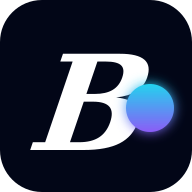
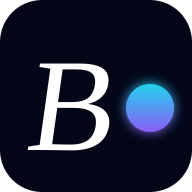
Branding: Standardize on 'boomtick.blog' Wordmark (#1108)

Changed region(s): [[0.125, 0.25, 0.7812, 0.8125]]

diff --git a/src/components/ui/Logo.tsx b/src/components/ui/Logo.tsx
@@ -1,26 +1,20 @@
-// impeccable-ignore-file
 import { useId } from 'react';
 import { cn } from '@/lib/utils';
-import { BrandDefs } from './BrandDefs';
 
 interface LogoProps {
   className?: string;
-  showText?: boolean;
 }
 
 /**
  * High-fidelity SVG Logo for BoomTick.
- * Featuring the serif "B" mark with a glowing gradient dot.
- * Uses shared brand definitions and utility classes for consistency.
+ * Consists of the 'boomtick.blog' wordmark.
  */
-export function Logo({ className, showText = true }: LogoProps) {
+export function Logo({ className }: LogoProps) {
   const titleId = useId();
-  const gradientId = useId();
-  const filterId = useId();
 
   return (
     <svg
-      viewBox={showText ? "0 0 450 100" : "0 0 120 100"}
+      viewBox="0 0 325 100"
       xmlns="http://www.w3.org/2000/svg"
       className={cn("h-full w-auto overflow-visible", className)}
       aria-labelledby={titleId}
@@ -28,40 +22,15 @@ export function Logo({ className, showText = true }: LogoProps) {
       preserveAspectRatio="xMidYMid meet"
     >
       <title id={titleId}>BoomTick Logo</title>
-      <BrandDefs gradientId={gradientId} filterId={filterId} />
 
-      <g transform="translate(10, 82)">
-        {/* The "B" Mark - Serif, Bold, Italic */}
-        <text
-          x="0"
-          y="0"
-          fill="currentColor"
-          transform="skewX(-8)"
-          className="brand-b-mark"
-        >
-          B
-        </text>
-
-        {/* The Glowing Dot */}
-        <circle
-          cx="82"
-          cy="-28"
-          r="16"
-          fill={`url(#${gradientId})`}
-          filter={`url(#${filterId})`}
-        />
-      </g>
-
-      {showText && (
-        <text
-          x="125"
-          y="78"
-          fill="currentColor"
-          className="brand-wordmark"
-        >
-          boom<tspan className="brand-text-accent">tick</tspan><tspan className="brand-text-muted font-light">.blog</tspan>
-        </text>
-      )}
+      <text
+        x="0"
+        y="75"
+        fill="currentColor"
+        className="brand-wordmark"
+      >
+        boom<tspan className="brand-text-accent">tick</tspan><tspan className="brand-text-muted font-light">.blog</tspan>
+      </text>
     </svg>
   );
 }

diff --git a/scripts/generate-assets.ts b/scripts/generate-assets.ts
@@ -5,7 +5,7 @@ import crypto from 'crypto';
 import { fileURLToPath } from 'url';
 
 const TOKENS_PATH = path.join(process.cwd(), 'src/styles/tokens.css');
-const LOGO_SVG_PATH = path.join(process.cwd(), 'boomtick_logo.svg');
+const LOGO_SVG_PATH = path.join(process.cwd(), 'public/boomtick_logo.svg');
 const FAVICON_SVG_PATH = path.join(process.cwd(), 'public/favicon.svg');
 const PWA_192_PATH = path.join(process.cwd(), 'public/pwa-192x192.png');
 const PWA_512_PATH = path.join(process.cwd(), 'public/pwa-512x512.png');
@@ -28,11 +28,6 @@ function getSharedSVGStyles(tokens: DesignTokens) {
     .brand-stop-purple { stop-color: ${tokens.accentPurple}; }
     .brand-text-accent { fill: ${tokens.heroAccent}; }
     .brand-text-muted { fill: rgba(241, 245, 249, 0.6); }
-    .brand-b-mark {
-      font-family: 'Playfair Display', serif;
-      font-weight: 900;
-      font-style: italic;
-    }
     .brand-wordmark {
       font-family: 'Bricolage Grotesque', sans-serif;
       font-weight: 800;

diff --git a/src/components/Navigation.tsx b/src/components/Navigation.tsx
@@ -5,7 +5,6 @@ import { NavLink } from 'react-router-dom';
 import { AnimatePresence } from 'motion/react';
 import { Box, Stack, Text } from '@/layouts/Primitives';
 import { Logo } from '@/components/ui/Logo';
-import { Wordmark } from '@/components/ui/Wordmark';
 
 import { routes } from '@/config/routes';
 import { useGlobalSearch } from '@/hooks/useGlobalSearch';
@@ -93,12 +92,7 @@ export default function Navigation() {
             paddingY={3}
             className="group border-b border-line"
           >
-            {/* B● mark — explicit white so currentColor renders on dark surface */}
-            <Logo
-              showText={false}
-              className="h-8 w-auto text-white transition-opacity group-hover:opacity-80"
-            />
-            <Wordmark variant="navigation" />
+            <Logo className="h-8 w-auto text-white transition-opacity group-hover:opacity-80" />
           </Box>
 
           <Stack as="ul" gap={1} flex={1} paddingY={4}>

diff --git a/src/components/navigation/MobileHeader.tsx b/src/components/navigation/MobileHeader.tsx
@@ -4,7 +4,6 @@ import { NavLink } from 'react-router-dom';
 import { motion } from 'motion/react';
 import { Box } from '@/layouts/Primitives';
 import { Logo } from '@/components/ui/Logo';
-import { Wordmark } from '@/components/ui/Wordmark';
 
 interface MobileHeaderProps {
   isOpen: boolean;
@@ -22,8 +21,7 @@ export function MobileHeader({ isOpen, onToggle, onClose }: MobileHeaderProps) {
       className="transition-[backdrop-filter] duration-300 bg-surface border-line"
     >
       <Box as={NavLink} to="/" onClick={onClose} display="flex" align="center" gap={2}>
-        <Logo showText={false} className="h-9 w-auto text-white flex-shrink-0" />
-        <Wordmark variant="navigation" />
+        <Logo className="h-9 w-auto text-white flex-shrink-0" />
       </Box>
 
       <Box

diff --git a/src/components/ui/HeroSection.tsx b/src/components/ui/HeroSection.tsx
@@ -2,7 +2,6 @@
 
 import { HeroParticleCanvas } from './HeroParticleCanvas';
 import { Stack, Text, Box } from '@/layouts/Primitives';
-import { Logo } from './Logo';
 import { Wordmark } from './Wordmark';
 import { HERO_CONFIG } from '@/config/hero';
 
@@ -49,14 +48,7 @@ export function HeroSection() {
       >
 
 
-        {/* Logo mark — B icon with wordmark */}
-        <Box
-          className="opacity-0 pointer-events-none hero-logo-anim"
-        >
-          <Logo className="text-white" showText={false} />
-        </Box>
-
-        <Wordmark variant="hero" />
+        <Wordmark variant="hero" className="opacity-0 pointer-events-none hero-logo-anim" />
 
         {/* Visual-style Headline - Editorial Serif with Balanced Visual Weight */}
         <Stack

diff --git a/src/layouts/Footer.tsx b/src/layouts/Footer.tsx
@@ -1,5 +1,4 @@
 import { Box, Stack, Text, Button } from '@/layouts/Primitives';
-import { BrandIcon } from '@/components/ui/BrandIcon';
 import { NewsletterBanner } from '@/features/email-capture/NewsletterBanner';
 
 export function Footer() {
@@ -16,7 +15,6 @@ export function Footer() {
 
       <Stack direction={{ base: 'col', sm: 'row' }} justify="between" align="center" gap={4}>
         <Stack direction="row" align="center" gap={2}>
-          <BrandIcon className="w-4 h-4 opacity-50" />
           <Text variant="mono" size="xs" color="dim" weight="font-semibold" uppercase className="tracking-widest" data-testid="footer-copyright">
             © 2026 BOOMTICK.BLOG
           </Text>

diff --git a/src/index.css b/src/index.css
@@ -150,12 +150,6 @@
   }
 
   /* Brand SVG Utilities */
-  .brand-b-mark {
-    font-family: var(--raw-font-serif);
-    font-weight: 900;
-    font-style: italic;
-    font-size: var(--brand-logo-size-b);
-  }
   .brand-wordmark {
     font-family: var(--raw-font-display);
     font-weight: 800;
@@ -164,8 +158,6 @@
   }
   .brand-text-accent { fill: var(--raw-color-accent-brand); }
   .brand-text-muted { fill: var(--logo-muted-text); }
-  .brand-stop-accent { stop-color: var(--raw-color-accent-brand); }
-  .brand-stop-purple { stop-color: var(--raw-color-accent-purple); }
 
   /* Wordmark Utilities */
   .wordmark-base {

diff --git a/test_audit.js b/test_audit.js
@@ -1,7 +1,7 @@
 const CONFIG = {
   allowedColors: [
     'bg', 'surface', 'surface-alt', 'accent', 'accent-brand', 'accent-navy',
-    'accent-purple', 'accent-magenta', 'brand-text-muted', 'brand-text-accent', 'brand-b-mark', 'brand-wordmark',
+    'accent-purple', 'accent-magenta', 'brand-text-muted', 'brand-text-accent', 'brand-wordmark',
     'text-main', 'text-body', 'text-dim', 'line', 'white', 'black',
     'transparent', 'current', 'yellow-400', 'emerald-500', 'red-500',
     'amber-500', 'success', 'error', 'warning',

diff --git a/tests/a11y.spec.ts b/tests/a11y.spec.ts
@@ -6,6 +6,9 @@ test.describe('accessibility', () => {
     await page.goto('./');
     await expect(page.locator('main')).toBeVisible();
 
+    // Wait for hero animations to complete to ensure stable contrast checks
+    await page.waitForTimeout(2000);
+
     const accessibilityScanResults = await new AxeBuilder({ page }).analyze();
 
     expect(accessibilityScanResults.violations).toEqual([]);

diff --git a/src/styles/tokens.css b/src/styles/tokens.css
@@ -80,7 +80,6 @@
   --raw-shadow-top-overlay: 0 -10px 40px rgba(0,0,0,0.3);
 
   /* Brand Logo */
-  --brand-logo-size-b: 85px;
   --brand-logo-size-text: 52px;
   --brand-logo-tracking: -1.5px;
 }
